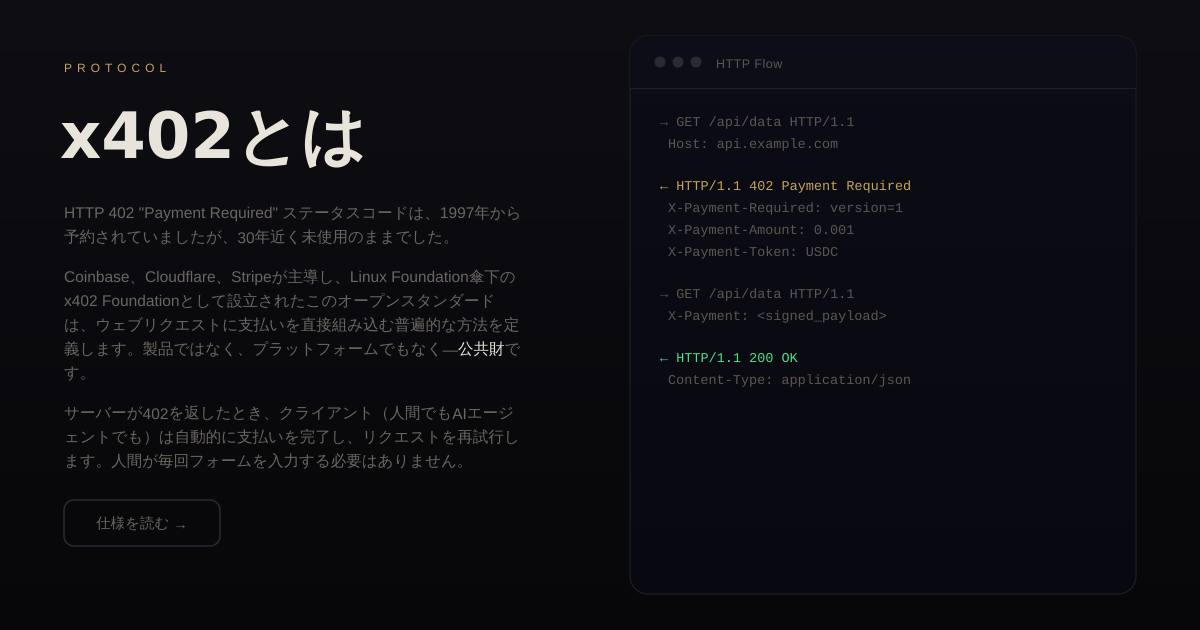
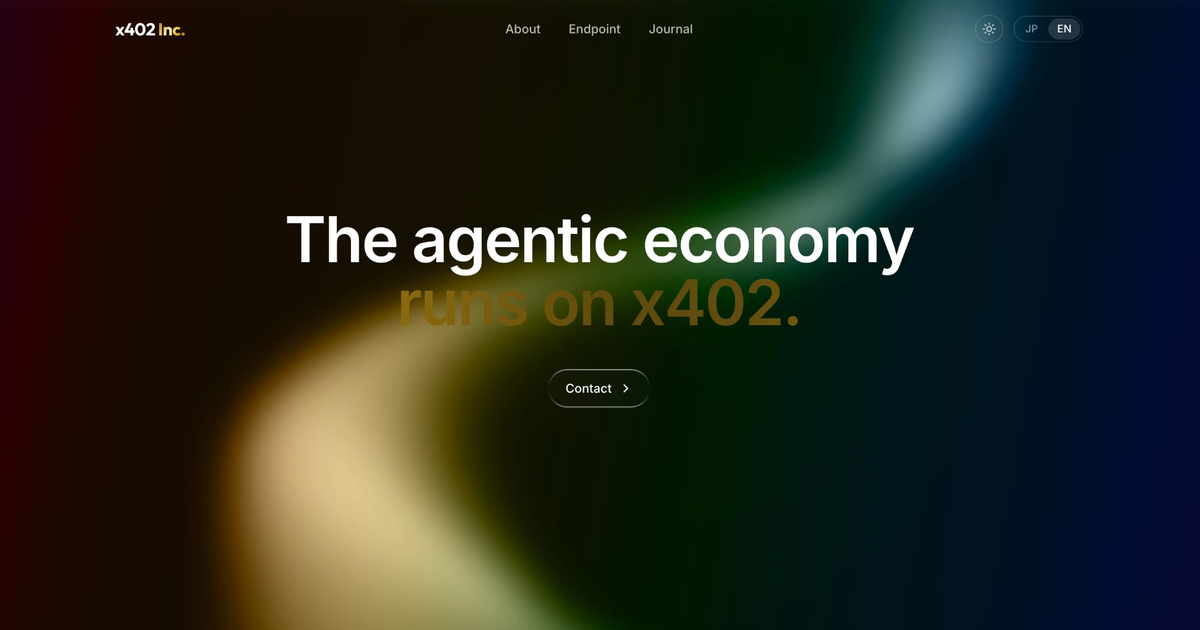
Replace OG image with the new hero visual
- public/og-image.png: 1200x630 crop of the dark-theme hero
  ("The agentic economy runs on x402.")
- Bust X/Telegram caches with og-image.png?v=2 on all pages
- Add og:image dimensions and twitter:image to about/products/research
- Remove the old generate-og script and og-image.svg (old 'x402とは' design)

Claude-Session: https://claude.ai/code/session_01EVAUrk17JATE8LxrCCuGRo

diff --git a/index.html b/index.html
@@ -11,14 +11,14 @@
   <meta property="og:url" content="https://x402jp.com/">
   <meta property="og:title" content="x402 Inc. — AIエージェントが自律的に選ぶAPIエコシステムと決済インフラの構築">
   <meta property="og:description" content="System of IntelligenceがAPIレイヤーでデータを消費する時代の決済オーケストレーション。Human → AI から AI ↔ AI への移行とともに、x402 Inc.はそのインフラを構築していきます。">
-  <meta property="og:image" content="https://x402jp.com/og-image.png">
+  <meta property="og:image" content="https://x402jp.com/og-image.png?v=2">
   <meta property="og:image:width" content="1200">
   <meta property="og:image:height" content="630">
   <meta property="og:locale" content="ja_JP">
   <meta name="twitter:card" content="summary_large_image">
   <meta name="twitter:title" content="x402 Inc. — AIエージェントが自律的に選ぶAPIエコシステムと決済インフラの構築">
   <meta name="twitter:description" content="System of IntelligenceがAPIレイヤーでデータを消費する時代の決済オーケストレーション。Human → AI から AI ↔ AI への移行とともに、x402 Inc.はそのインフラを構築していきます。">
-  <meta name="twitter:image" content="https://x402jp.com/og-image.png">
+  <meta name="twitter:image" content="https://x402jp.com/og-image.png?v=2">
 </head>
 <body>
   <div id="root"></div>

diff --git a/research.html b/research.html
@@ -11,9 +11,12 @@
   <meta property="og:url" content="https://x402jp.com/research.html">
   <meta property="og:title" content="考察・調査 — x402 Inc.">
   <meta property="og:description" content="考察・調査——エージェント決済の「現在地」を一次情報から読み解く。委任付き自律決済から市場拡大まで。">
-  <meta property="og:image" content="https://x402jp.com/og-image.png">
+  <meta property="og:image" content="https://x402jp.com/og-image.png?v=2">
+  <meta property="og:image:width" content="1200">
+  <meta property="og:image:height" content="630">
   <meta property="og:locale" content="ja_JP">
   <meta name="twitter:card" content="summary_large_image">
+  <meta name="twitter:image" content="https://x402jp.com/og-image.png?v=2">
 </head>
 <body>
   <div id="root"></div>

diff --git a/products.html b/products.html
@@ -11,9 +11,12 @@
   <meta property="og:url" content="https://x402jp.com/products.html">
   <meta property="og:title" content="プロダクト — x402 Inc.">
   <meta property="og:description" content="x402 Inc. が作ったもの——Phase 0〜3で設計された、x402対応エンドポイントと自律エージェントのプロダクト群。">
-  <meta property="og:image" content="https://x402jp.com/og-image.png">
+  <meta property="og:image" content="https://x402jp.com/og-image.png?v=2">
+  <meta property="og:image:width" content="1200">
+  <meta property="og:image:height" content="630">
   <meta property="og:locale" content="ja_JP">
   <meta name="twitter:card" content="summary_large_image">
+  <meta name="twitter:image" content="https://x402jp.com/og-image.png?v=2">
 </head>
 <body>
   <div id="root"></div>

diff --git a/about.html b/about.html
@@ -11,9 +11,12 @@
   <meta property="og:url" content="https://x402jp.com/about.html">
   <meta property="og:title" content="x402とは — x402 Inc.">
   <meta property="og:description" content="x402とは——1997年から未使用だったHTTP 402をAIエージェントの自律決済プロトコルとして再活性化する。">
-  <meta property="og:image" content="https://x402jp.com/og-image.png">
+  <meta property="og:image" content="https://x402jp.com/og-image.png?v=2">
+  <meta property="og:image:width" content="1200">
+  <meta property="og:image:height" content="630">
   <meta property="og:locale" content="ja_JP">
   <meta name="twitter:card" content="summary_large_image">
+  <meta name="twitter:image" content="https://x402jp.com/og-image.png?v=2">
 </head>
 <body>
   <div id="root"></div>
